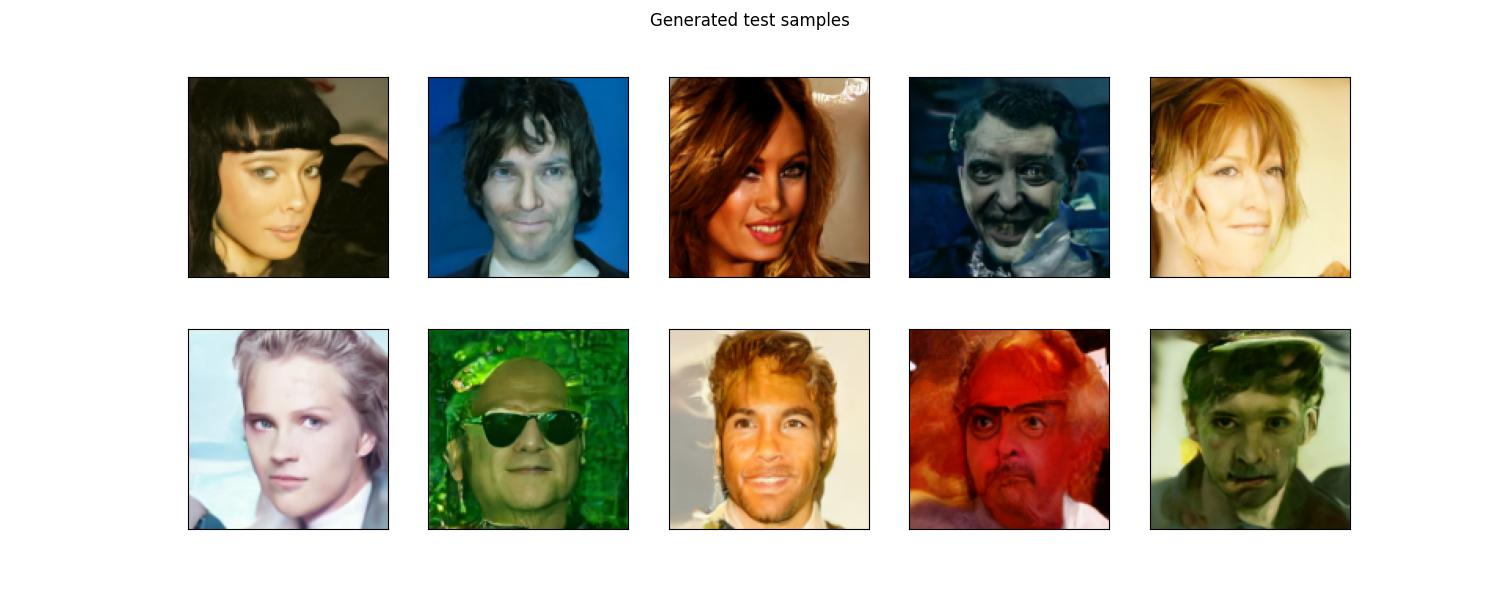
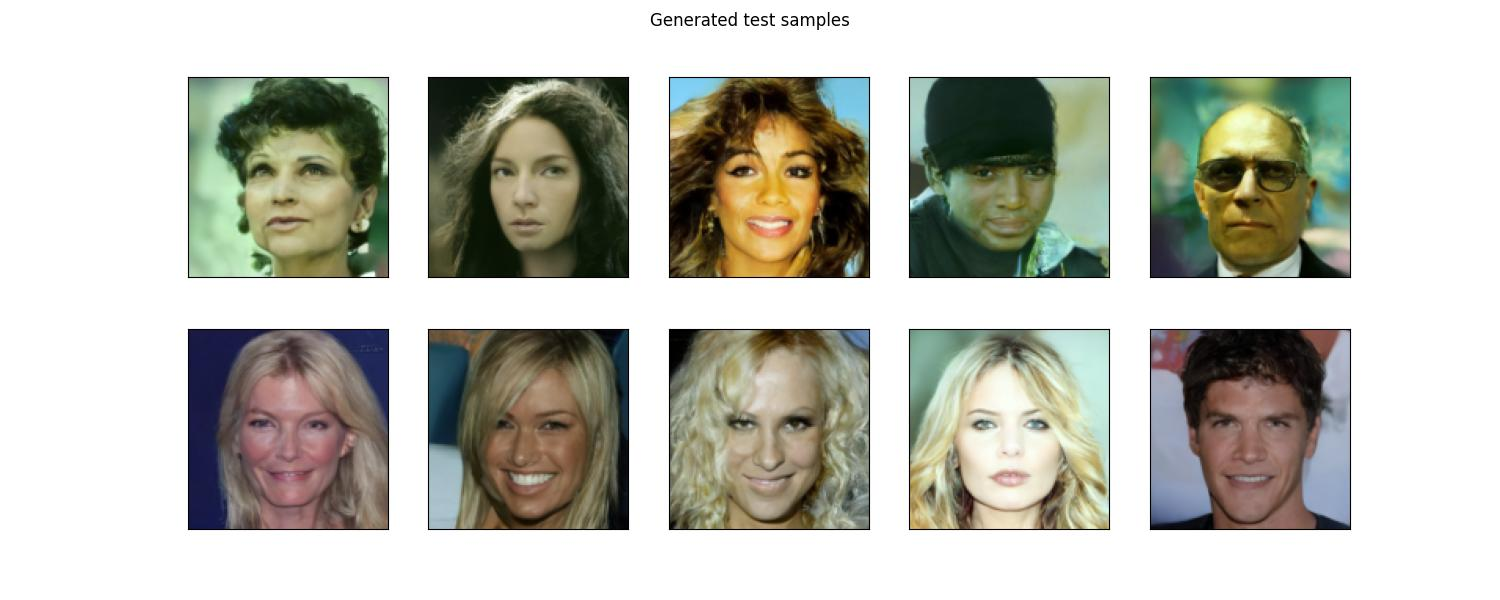
rerun diff gen base

diff --git a/README.md b/README.md
@@ -121,10 +121,10 @@ download-once approach used for Celeb is planned.
 ##### dg_m_cele_x128_00_base_dist2.yaml
 - Keywords: pixel-space DDPM, MONAI UNet, baseline architecture, 128px
 - GPU: 2x A100
-- Train: 65 EP, 4h16m, 3m48s/EP
+- Train: 129 EP, 8h33m, 3m59s/EP (stopped early: ValLoss_stagnated)
 
 ![dg_m_cele_x128_00_base_dist2 generated test samples](assets/dg_m_cele_x128_00_base_dist2.jpg)
-- Quality: bad - about 4/10 faces have unnatural green/red skin-tone artifacts, not real-looking
+- Quality: About 2-3/10 faces show a mild olive/yellow color-cast, rest look real
 
 ##### dg_m_cele_x128_01.yaml (resblock_updown: false)
 - Keywords: architecture ablation, UNet residual blocks disabled
